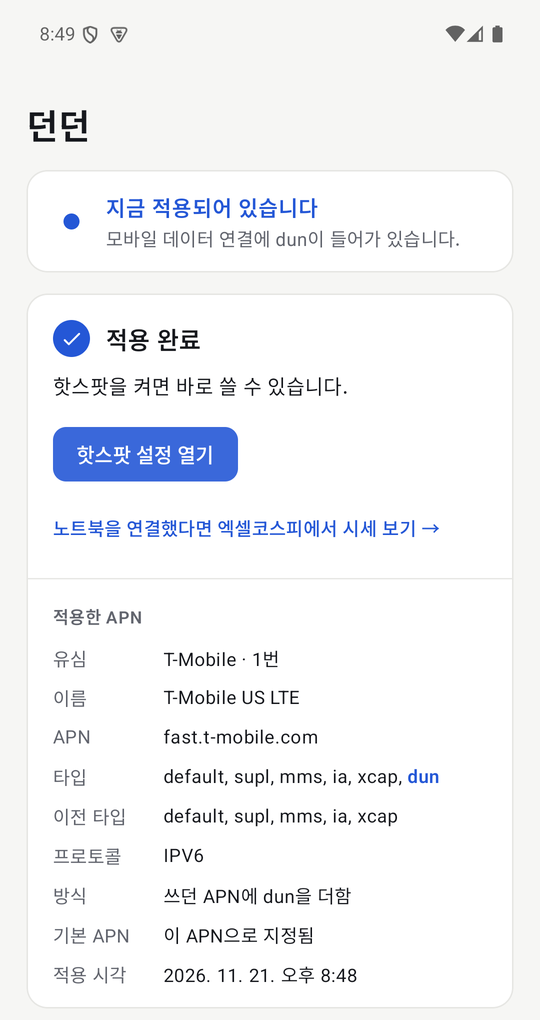
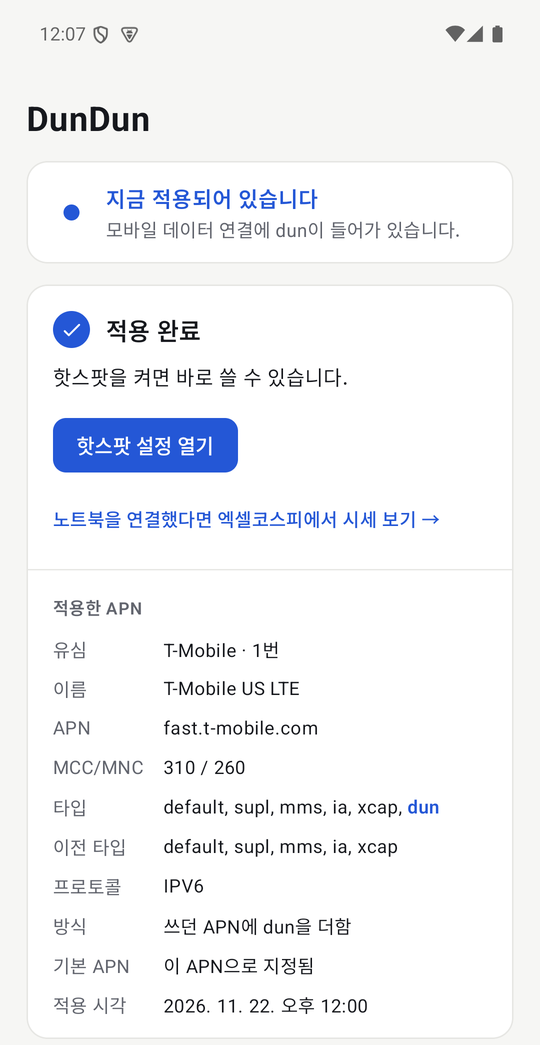
이름을 DunDun으로, 공유데이터 제한 해제로 설명 (1.4.0)
한국어 앱 이름도 DunDun(던던은 검색 별칭). 화면 아래에 '핫스팟은 공유데이터 대신 일반 데이터를 씁니다' 안내(12개 언어).
README는 공유데이터 제한 해제로 소개하고, 데이터가 늘어나지 않는다는 점과 '무제한이 되나요' 질문을 넣었다.

diff --git a/app/src/main/java/app/tetherfree/MainActivity.kt b/app/src/main/java/app/tetherfree/MainActivity.kt
@@ -300,6 +300,11 @@ private fun Home(tick: Int) {
         UpdateSection(store, tick, busy = work is Work.Busy || work is Work.WaitingCode)
         Spacer(Modifier.height(16.dp))
         Text(
+            stringResource(R.string.data_note),
+            fontSize = 12.sp, lineHeight = 17.sp, color = MaterialTheme.colorScheme.onSurfaceVariant,
+        )
+        Spacer(Modifier.height(6.dp))
+        Text(
             stringResource(R.string.disclaimer),
             fontSize = 12.sp, lineHeight = 17.sp, color = MaterialTheme.colorScheme.onSurfaceVariant,
         )

diff --git a/README.md b/README.md
@@ -1,9 +1,11 @@
-# 던던 (DunDun)
+# DunDun
 
-핫스팟이 안 될 때 APN을 설정해 주는 안드로이드용 오픈소스 앱입니다. 갤럭시를 비롯해 안드로이드 13 이상 폰에서 씁니다.
-PC, 루팅, Shizuku 없이 폰 하나로 끝납니다.
+공유데이터 제한 해제 앱입니다. 공유데이터(테더링 데이터)를 다 써서 핫스팟이 막혀도, 남은 일반 데이터로 핫스팟을 쓸 수 있게 APN을 설정해 줍니다.
+갤럭시를 비롯한 안드로이드 13 이상 폰에서, PC·루팅·Shizuku 없이 폰 하나로 끝납니다.
 
-이름은 이 앱이 APN에 더하는 타입 `dun`에서 따왔습니다.
+> 데이터가 무한히 생기는 앱이 아닙니다. 핫스팟이 공유데이터 대신 일반 데이터를 쓰게 바꿀 뿐이라, 일반 데이터를 다 쓰면 요금제의 속도 제한이 그대로 걸립니다.
+
+이름 DunDun(던던)은 이 앱이 APN에 더하는 타입 `dun`에서 따왔습니다.
 
 [English](README.en.md) · [최신 APK 받기](https://github.com/ohseyong/dundun/releases/latest)
 
@@ -15,8 +17,8 @@ PC, 루팅, Shizuku 없이 폰 하나로 끝납니다.
 
 ## 왜 만들었나
 
-안드로이드 폰, 특히 One UI 7 이상 갤럭시에서는 데이터를 다 쓰고 속도 제한이 걸리면 핫스팟이 막히는 경우가 있습니다.
-지금 쓰는 인터넷 APN에 `dun` 타입을 더하면 핫스팟도 일반 데이터와 같은 길로 나갑니다.
+요금제에는 보통 핫스팟에 쓸 수 있는 공유데이터 한도가 따로 있습니다. 이 한도를 다 쓰거나 데이터를 다 써서 속도 제한이 걸리면, 일반 데이터는 남아 있어도 핫스팟이 막히는 경우가 있습니다. 특히 One UI 7 이상 갤럭시에서 많이 겪습니다.
+지금 쓰는 인터넷 APN에 `dun` 타입을 더하면 핫스팟도 일반 데이터와 같은 길로 나가, 공유데이터 한도에 묶이지 않습니다.
 
 이 방법은 원래 DunUnlocker와 Shizuku를 같이 깔고, 무선 디버깅 페어링과 APN 설정을 여러 화면을 오가며 해야 했습니다.
 이 앱은 그 과정을 앱 하나, 네 단계로 줄였습니다.
@@ -78,9 +80,12 @@ PC, 루팅, Shizuku 없이 폰 하나로 끝납니다.
 
 연락처, 위치, 사진·파일, 전화, 카메라, 마이크 권한은 요청하지 않습니다.
 
-무선 디버깅은 켜져 있는 동안 폰에 강한 권한을 여는 기능입니다. 던던은 일이 끝나면 자동으로 끄지만, 직접 켰다면 쓰고 나서 꺼 두세요. 무선 디버깅 설정의 '페어링된 기기'에 DunDun이 남는데, 다시 적용하거나 되돌릴 일이 없으면 지워도 됩니다.
+무선 디버깅은 켜져 있는 동안 폰에 강한 권한을 여는 기능입니다. DunDun은 일이 끝나면 자동으로 끄지만, 직접 켰다면 쓰고 나서 꺼 두세요. 무선 디버깅 설정의 '페어링된 기기'에 DunDun이 남는데, 다시 적용하거나 되돌릴 일이 없으면 지워도 됩니다.
 
 ## 자주 묻는 질문
+
+**테더링을 무제한으로 쓸 수 있게 되나요?**
+아니요. 핫스팟이 공유데이터 대신 일반 데이터를 쓰게 될 뿐입니다. 일반 데이터를 다 쓰면 요금제의 속도 제한이 그대로 걸리고, 그 속도로 핫스팟을 쓰게 됩니다.
 
 **핫스팟을 써도 테더링(공유) 데이터가 줄지 않나요?**
 그럴 가능성이 큽니다. 핫스팟 트래픽이 테더링 전용 APN 대신 일반 데이터와 같은 APN으로 나가서, 통신사에는 일반 데이터로 보이기 때문입니다.
@@ -101,7 +106,7 @@ PC, 루팅, Shizuku 없이 폰 하나로 끝납니다.
 
 ## 주의
 
-- 테더링 제한을 우회하면 통신사 약관에 어긋날 수 있고, 회선 이용이 제한될 수 있습니다. 쓰는 사람이 책임지고 판단해야 합니다.
+- 공유데이터 한도를 넘어 핫스팟을 쓰면 통신사 약관에 어긋날 수 있고, 회선 이용이 제한될 수 있습니다. 쓰는 사람이 책임지고 판단해야 합니다.
 - 안드로이드 15 에뮬레이터에서 페어링, 적용, 되돌리기 전체 흐름을 확인했습니다. 실제 갤럭시 기기와 통신사 회선에서는 기기와 통신사마다 결과가 다를 수 있습니다. 기능은 안드로이드 표준이라 제조사와 상관없이 같은 방식으로 동작합니다. 결과를 [Issues](https://github.com/ohseyong/dundun/issues)에 남겨 주시면 반영하겠습니다.
 - 통신사 설정 업데이트나 초기화 뒤에는 다시 적용해야 할 수 있습니다.
 - 앱이 인터넷에 접속하는 곳은 업데이트 확인용 GitHub(api.github.com, github.com)뿐입니다. 개인 정보는 보내지 않습니다.

diff --git a/README.en.md b/README.en.md
@@ -1,7 +1,9 @@
 # DunDun
 
-An open-source Android app that sets up your APN when your hotspot won't work. Works on Android 13 or later, including Samsung Galaxy.
-No PC, no root, no Shizuku.
+Lifts the tethering data cap. When your hotspot is blocked because you used up your tethering (shared) data allowance, DunDun sets up your APN so the hotspot can use your remaining regular data.
+Works on Android 13 or later, including Samsung Galaxy. No PC, no root, no Shizuku.
+
+> It doesn't give you unlimited data. The hotspot just uses your regular data instead of the tethering allowance; once your regular data runs out, your plan's speed limit still applies.
 
 The name comes from `dun`, the APN type this app adds.
 
@@ -15,8 +17,8 @@ The name comes from `dun`, the APN type this app adds.
 
 ## Why
 
-On Android phones, especially Galaxy with One UI 7 or later, the hotspot can get blocked once your data cap is used up and you are throttled.
-Adding the `dun` type to the internet APN you use now sends hotspot traffic the same way as normal data.
+Plans often have a separate data allowance for the hotspot. Once it runs out, or you're throttled, the hotspot can get blocked even though you still have regular data. This happens a lot on Galaxy phones with One UI 7 or later.
+Adding the `dun` type to the internet APN you use now sends hotspot traffic the same way as normal data, so it isn't tied to the tethering allowance.
 
 Doing this used to mean installing DunUnlocker and Shizuku, pairing wireless debugging, and setting the APN across many screens.
 This app does it in one app and four steps.
@@ -81,6 +83,9 @@ No contacts, location, photos/files, phone, camera, or microphone permissions.
 Wireless debugging opens powerful access while it's on. DunDun turns it off when done, but if you turned it on yourself, turn it off afterwards. DunDun stays under Paired devices in wireless debugging settings; you can remove it if you won't apply or restore again.
 
 ## FAQ
+
+**Does this make tethering unlimited?**
+No. The hotspot uses your regular data instead of the tethering allowance. Once your regular data runs out, your plan's speed limit still applies to the hotspot.
 
 **Does hotspot use still eat into my tethering/sharing allowance?**
 Probably not. Hotspot traffic goes out through the same APN as normal data instead of a tethering APN, so to the carrier it looks like normal data.
